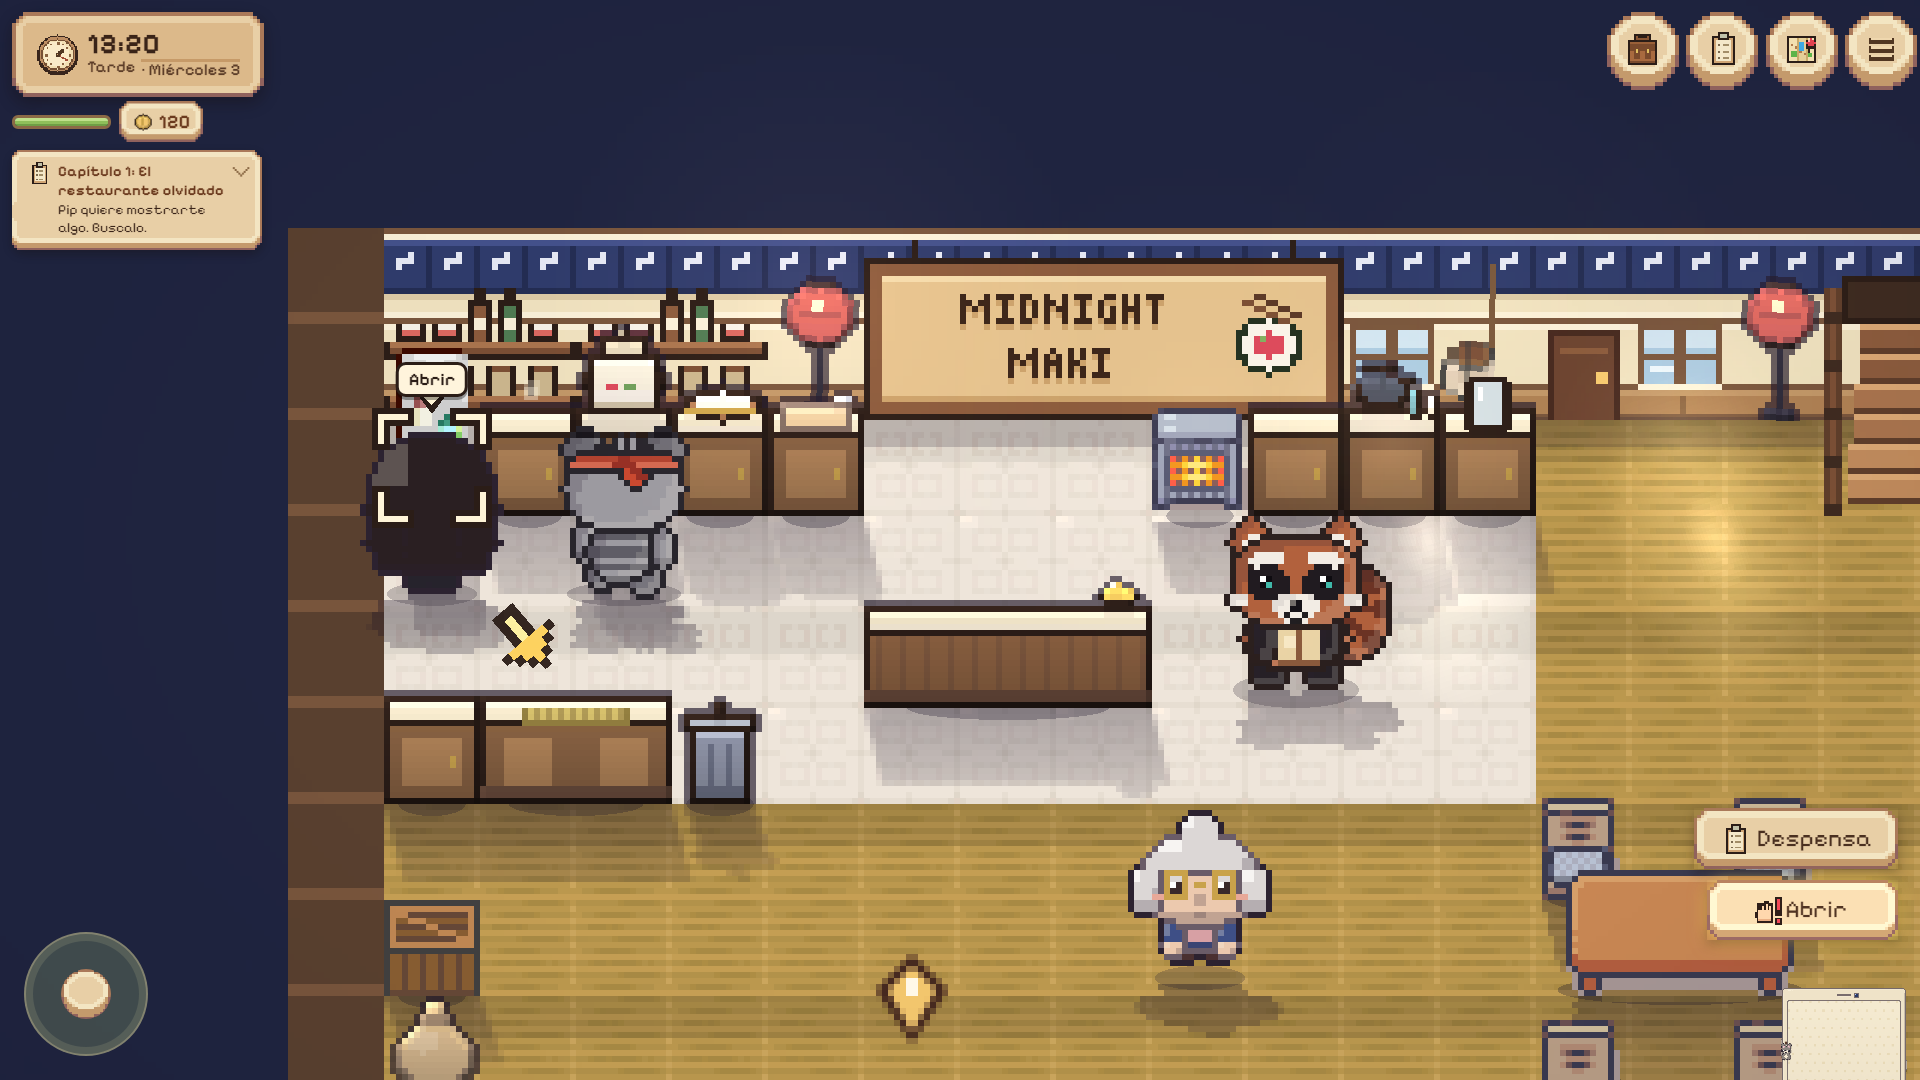
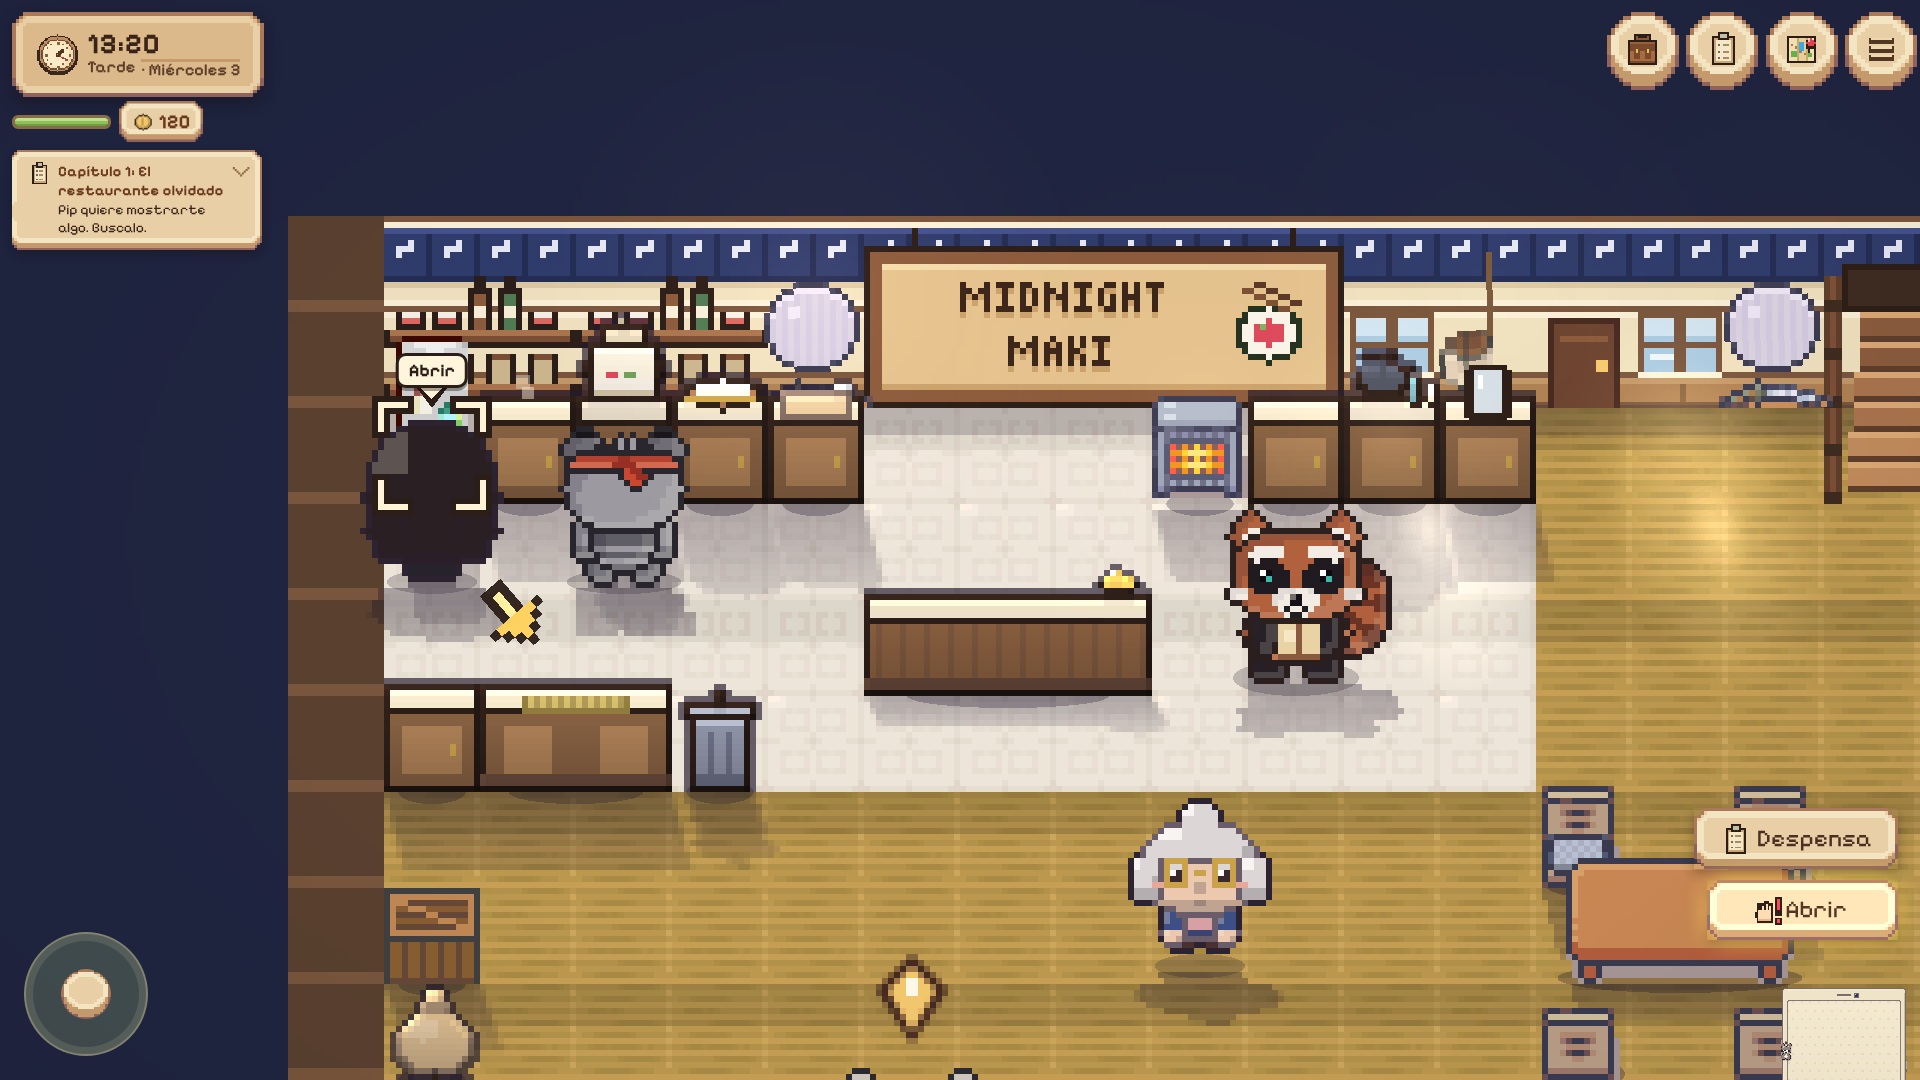
Cartel de interacción bien ubicado con el tamaño de interfaz y cocina centrada sin alejar el zoom
El cartel flotante del HUD calculaba su posición en píxeles de pantalla pero #ui usa CSS zoom (tamaño de interfaz): left/top se escalaban y el cartel se corría hacia la esquina superior izquierda cuanto más chica la interfaz. Ahora se divide por esa escala, como ya hacen actionPanel y galleyUi.
La cámara de la cocina conserva el zoom de caminar cuando la cocina entra y la centra entre las barras del HUD; solo baja el zoom si la pantalla es realmente chica.

Claude-Session: https://claude.ai/code/session_01Q9tFTKZvvquF6SSLj5Ec4x

diff --git a/src/tests/kitchenFrame.test.ts b/src/tests/kitchenFrame.test.ts
@@ -1,13 +1,23 @@
 import { describe, expect, it } from 'vitest';
-import { KITCHEN_VIEW, kitchenCameraFrame } from '../ui/kitchenFrame';
+import { KITCHEN_FOCUS, kitchenCameraFrame } from '../ui/kitchenFrame';
+import { walkingZoom } from '../ui/frameMath';
 describe('kitchen camera', () => {
-  it.each([[2521, 1287], [1920, 1080], [1280, 720], [390, 844], [320, 640], [844, 390]])('shows every counter below the HUD at %i×%i', (w, h) => {
+  const sizes: [number, number][] = [[2521, 1287], [1920, 1080], [1280, 720], [390, 844], [320, 640], [844, 390]];
+  it.each(sizes)('shows the whole kitchen, centred between the HUD bars, at %i×%i', (w, h) => {
     const f = kitchenCameraFrame(w, h);
-    const left = w / 2 + (KITCHEN_VIEW.x * 16 - f.x) * f.zoom;
-    const top = h / 2 + (KITCHEN_VIEW.y * 16 - f.y) * f.zoom;
+    const left = w / 2 + (KITCHEN_FOCUS.x * 16 - f.x) * f.zoom;
+    const top = h / 2 + (KITCHEN_FOCUS.y * 16 - f.y) * f.zoom;
+    const width = KITCHEN_FOCUS.w * 16 * f.zoom, height = KITCHEN_FOCUS.h * 16 * f.zoom;
     expect(left).toBeGreaterThanOrEqual(11);
-    expect(left + KITCHEN_VIEW.w * 16 * f.zoom).toBeLessThanOrEqual(w - 11);
+    expect(left + width).toBeLessThanOrEqual(w - 11);
     expect(top).toBeGreaterThanOrEqual(f.top - .01);
-    expect(top + KITCHEN_VIEW.h * 16 * f.zoom).toBeLessThanOrEqual(h - f.bottom + .01);
+    expect(top + height).toBeLessThanOrEqual(h - f.bottom + .01);
+    // centred on both axes (the free band is the one between the bars)
+    expect(left + width / 2).toBeCloseTo(w / 2, 5);
+    expect(top + height / 2).toBeCloseTo(f.top + (h - f.top - f.bottom) / 2, 5);
+  });
+
+  it.each([[2521, 1287], [1920, 1080], [1280, 720]])('keeps the walking zoom on a desktop screen (%i×%i): the camera does not pull back', (w, h) => {
+    expect(kitchenCameraFrame(w, h).zoom).toBe(walkingZoom(w, h, 16));
   });
 });

diff --git a/src/ui/kitchenFrame.ts b/src/ui/kitchenFrame.ts
@@ -1,10 +1,16 @@
-/** Keep the entire working aisle and the tall counter sprites below the HUD. */
+/**
+ * The kitchen is framed as a whole, centred between the HUD bars, keeping the walking zoom whenever it fits (zooming out only
+ * when the screen really is too small for it). The frame is the map's own rows (nothing above row 0 but void), from the back wall
+ * and its tall counter sprites to the gap row that leads back to the dining hall, plus a tile of air on each side.
+ */
 import { KITCHEN } from '../galley/layout';
 import { walkingZoom } from './frameMath';
-export const KITCHEN_VIEW = { x: KITCHEN.x - 1, y: KITCHEN.y - 3, w: KITCHEN.w + 2, h: KITCHEN.h + 4 };
+export const KITCHEN_FOCUS = { x: KITCHEN.x - 1, y: 0, w: KITCHEN.w + 2, h: KITCHEN.y + KITCHEN.h + 1 };
 export function kitchenCameraFrame(width: number, height: number, tile = 16) {
   const top = Math.min(132, height * .23), bottom = Math.min(108, height * .2);
-  const fit = Math.min((width - 24) / (KITCHEN_VIEW.w * tile), (height - top - bottom) / (KITCHEN_VIEW.h * tile), walkingZoom(width, height, tile));
+  const fit = Math.min((width - 24) / (KITCHEN_FOCUS.w * tile), (height - top - bottom) / (KITCHEN_FOCUS.h * tile), walkingZoom(width, height, tile));
   const zoom = Math.max(.75, fit >= 2 ? Math.floor(fit) : Math.floor(fit * 4) / 4);
-  return { zoom, x: (KITCHEN_VIEW.x + KITCHEN_VIEW.w / 2) * tile, y: KITCHEN_VIEW.y * tile + (height / 2 - top) / zoom, top, bottom };
+  // the camera's centre is the middle of the screen: the kitchen's centre goes to the middle of what the bars leave free
+  const cx = (KITCHEN_FOCUS.x + KITCHEN_FOCUS.w / 2) * tile, cy = (KITCHEN_FOCUS.y + KITCHEN_FOCUS.h / 2) * tile;
+  return { zoom, x: cx, y: cy + (bottom - top) / (2 * zoom), top, bottom };
 }

diff --git a/src/ui/hud.ts b/src/ui/hud.ts
@@ -5,6 +5,7 @@ import { audio } from '../audio/audio';
 import { getEnergy, TIRED_LIMIT, WARN_LIMIT } from '../systems/fatigue';
 import { bus } from '../core/events';
 import { settings } from '../core/settings';
+import { normalizeUiScale } from '../core/uiScale';
 import { game } from '../core/state';
 import { bindingMap, keyLabel, type GameAction } from '../input/bindings';
 import { inputMethod } from '../input/keys';
@@ -232,8 +233,11 @@ function promptLoop() {
   const text = `${key ? `[${key}] ` : ''}${a.label}`;
   if (text !== promptKey) { promptKey = text; promptEl.textContent = text; }
   promptEl.hidden = false;
-  promptEl.style.left = `${Math.round(pos.x)}px`;
-  promptEl.style.top = `${Math.round(pos.y)}px`;
+  // #ui is laid out with CSS `zoom` (the interface size setting): a fixed element's left/top are scaled by it too, so the
+  // screen position is divided by it (otherwise the label drifts towards the top-left corner the smaller the interface is)
+  const scale = normalizeUiScale(settings.uiScale);
+  promptEl.style.left = `${Math.round(pos.x / scale)}px`;
+  promptEl.style.top = `${Math.round(pos.y / scale)}px`;
 }
 promptLoop();
 
